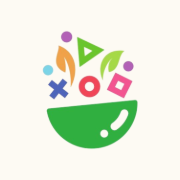
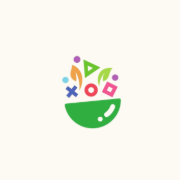
v4

Changed region(s): [[0.2222, 0.1667, 0.7778, 0.8333]]

diff --git a/Fillable Forms/pdf-form.js b/Fillable Forms/pdf-form.js
@@ -53,15 +53,127 @@
     // “Save my progress” writes an explicit file instead
   }
 
+  /* ---------- zoom / device (screen only) ---------- */
+  var ZOOM_MIN = 0.6, ZOOM_MAX = 2, ZOOM_STEP = 0.1;
+  var zoom = 1;
+  function setZoom(z) {
+    zoom = Math.min(ZOOM_MAX, Math.max(ZOOM_MIN, Math.round(z * 100) / 100));
+    document.documentElement.style.setProperty('--pf-zoom', zoom);
+    var val = document.querySelector('.pf-zoom-val');
+    if (val) val.textContent = Math.round(zoom * 100) + '%';
+    requestAnimationFrame(fitFonts);
+  }
+  function setDevice(mode) {
+    var phone = mode === 'phone';
+    document.body.classList.toggle('pf-phone', phone);
+    if (phone) setZoom(1);
+    document.querySelectorAll('.pf-view .seg').forEach(function (s) {
+      s.classList.toggle('active', s.getAttribute('data-view') === mode);
+    });
+    requestAnimationFrame(fitFonts);
+  }
+  function autoDevice() {
+    var small = window.matchMedia('(max-width: 760px)').matches;
+    var coarse = window.matchMedia('(pointer: coarse)').matches;
+    setDevice(small || coarse ? 'phone' : 'computer');
+  }
+
+  /* ---------- share ---------- */
+  function shareForm() {
+    var url = location.href.split('#')[0];
+    var title = CFG.title || document.title || 'Noor Therapy Center form';
+    if (navigator.share) {
+      navigator.share({ title: title, text: 'Please complete this form for Noor Therapy Center:', url: url }).catch(function () {});
+      return;
+    }
+    openSharePopover(url, title);
+  }
+  function openSharePopover(url, title) {
+    closeSharePopover();
+    var pop = document.createElement('div');
+    pop.className = 'share-pop no-print';
+    pop.innerHTML =
+      '<button class="close" data-act="x" aria-label="Close">\u00d7</button>' +
+      '<h4>Share this form</h4>' +
+      '<p>Send the link so anyone can fill it out on their phone or computer.</p>' +
+      '<input class="url" readonly value="' + url.replace(/"/g, '&quot;') + '"/>' +
+      '<div class="row">' +
+        '<button data-act="copy">Copy link</button>' +
+        '<button class="alt" data-act="email">Email</button>' +
+      '</div>';
+    document.body.appendChild(pop);
+    var input = pop.querySelector('.url');
+    input.addEventListener('focus', function () { input.select(); });
+    pop.addEventListener('click', function (e) {
+      var b = e.target.closest('button');
+      if (!b) return;
+      var act = b.getAttribute('data-act');
+      if (act === 'x') { closeSharePopover(); }
+      else if (act === 'copy') { copyText(url); toast('Link copied to clipboard'); closeSharePopover(); }
+      else if (act === 'email') {
+        window.location.href = 'mailto:?subject=' + encodeURIComponent(title) +
+          '&body=' + encodeURIComponent('Please complete this form for Noor Therapy Center:\n\n' + url);
+        closeSharePopover();
+      }
+    });
+    setTimeout(function () { document.addEventListener('click', outsideShare, true); }, 0);
+  }
+  function outsideShare(e) {
+    if (e.target.closest('.share-pop') || e.target.closest('[data-act="share"]')) return;
+    closeSharePopover();
+  }
+  function closeSharePopover() {
+    var p = document.querySelector('.share-pop');
+    if (p) p.remove();
+    document.removeEventListener('click', outsideShare, true);
+  }
+  function copyText(text) {
+    if (navigator.clipboard && navigator.clipboard.writeText) {
+      navigator.clipboard.writeText(text).catch(function () { legacyCopy(text); });
+    } else { legacyCopy(text); }
+  }
+  function legacyCopy(text) {
+    var t = document.createElement('textarea');
+    t.value = text; t.style.position = 'fixed'; t.style.opacity = '0';
+    document.body.appendChild(t); t.focus(); t.select();
+    try { document.execCommand('copy'); } catch (e) {}
+    document.body.removeChild(t);
+  }
+  var toastTimer;
+  function toast(msg) {
+    var el = document.querySelector('.pf-toast');
+    if (!el) {
+      el = document.createElement('div');
+      el.className = 'pf-toast no-print';
+      document.body.appendChild(el);
+    }
+    el.textContent = msg;
+    requestAnimationFrame(function () { el.classList.add('show'); });
+    clearTimeout(toastTimer);
+    toastTimer = setTimeout(function () { el.classList.remove('show'); }, 2400);
+  }
+
   /* ---------- chrome ---------- */
   function buildChrome() {
     var bar = document.createElement('div');
-    bar.className = 'pf-toolbar no-print';    bar.innerHTML =
+    bar.className = 'pf-toolbar no-print';
+    bar.innerHTML =
       '<button type="button" class="pf-back"><svg viewBox="0 0 24 24" fill="none" stroke="currentColor" stroke-width="2.4" stroke-linecap="round" stroke-linejoin="round"><path d="m15 18-6-6 6-6"/></svg>Back</button>' +
       '<span class="pf-title"></span>' +
+      '<div class="pf-group pf-zoomg">' +
+        '<button type="button" class="zoom" data-act="zoom-out" title="Zoom out" aria-label="Zoom out">\u2212</button>' +
+        '<button type="button" class="pf-zoom-val" data-act="zoom-reset" title="Reset zoom">100%</button>' +
+        '<button type="button" class="zoom" data-act="zoom-in" title="Zoom in" aria-label="Zoom in">+</button>' +
+      '</div>' +
+      '<div class="pf-group pf-view">' +
+        '<button type="button" class="seg active" data-view="computer">Computer</button>' +
+        '<button type="button" class="seg" data-view="phone">Phone</button>' +
+      '</div>' +
+      '<button type="button" class="pf-share" data-act="share">Share</button>' +
+      '<button type="button" class="pf-pdf" title="Choose &quot;Save as PDF&quot; as the destination">Download PDF</button>' +
+      '<button type="button" class="pf-print" title="Send to a printer">Print</button>' +
       '<button type="button" class="pf-theme" title="Switch to dark mode">\u263E</button>' +
-      '<button type="button" class="pf-clear">Clear</button>' +
-      '<button type="button" class="pf-print">Print / Save PDF</button>';
+      '<button type="button" class="pf-clear">Clear</button>';
     document.body.insertBefore(bar, document.body.firstChild);
     bar.querySelector('.pf-title').textContent = CFG.title || document.title;
 
@@ -72,7 +184,21 @@
       }
       location.href = '../staff-portal/forms.html';
     });
+    bar.querySelector('.pf-pdf').addEventListener('click', function () { window.print(); });
     bar.querySelector('.pf-print').addEventListener('click', function () { window.print(); });
+    bar.querySelector('.pf-share').addEventListener('click', shareForm);
+    bar.addEventListener('click', function (e) {
+      var view = e.target.closest('[data-view]');
+      if (view) { setDevice(view.getAttribute('data-view')); return; }
+      var b = e.target.closest('button[data-act]');
+      if (!b) return;
+      switch (b.getAttribute('data-act')) {
+        case 'zoom-in':    setZoom(zoom + ZOOM_STEP); break;
+        case 'zoom-out':   setZoom(zoom - ZOOM_STEP); break;
+        case 'zoom-reset': setZoom(1); break;
+      }
+    });
+    autoDevice();
 
     // Save / open progress (same affordance as the HTML forms)
     var sb = document.createElement('div');

diff --git a/Fillable Forms/pdf-form.css b/Fillable Forms/pdf-form.css
@@ -16,14 +16,25 @@ body { margin: 0; background: #e9ece4; font-family: 'DM Sans', system-ui, sans-s
 .pf-toolbar button { font-family: inherit; font-size: 12.5px; font-weight: 700; border: none; border-radius: 999px; padding: 9px 15px; cursor: pointer; }
 .pf-toolbar .pf-back { background: #f0f0ea; color: #1f2e1a; display: inline-flex; align-items: center; gap: 6px; }
 .pf-toolbar .pf-back svg { width: 14px; height: 14px; }
-.pf-toolbar .pf-print { background: #2f6fd6; color: #fff; }
+.pf-toolbar .pf-share { background: #9b51c9; color: #fff; }
+.pf-toolbar .pf-pdf { background: #2f6fd6; color: #fff; }
+.pf-toolbar .pf-print { background: #2aa63a; color: #fff; }
 .pf-toolbar .pf-clear { background: #f0f0ea; color: #4a5545; }
+
+/* zoom + view groups */
+.pf-toolbar .pf-group { display: flex; align-items: center; gap: 2px; background: #f0f0ea; border-radius: 999px; padding: 3px; }
+.pf-toolbar .pf-group button { background: transparent; color: #1f2e1a; padding: 6px 12px; border-radius: 999px; }
+.pf-toolbar .pf-zoomg .zoom { width: 32px; padding: 6px 0; font-size: 14px; }
+.pf-toolbar .pf-zoom-val { min-width: 52px; font-variant-numeric: tabular-nums; }
+.pf-toolbar .pf-view .seg.active { background: #fff; box-shadow: 0 1px 3px rgba(0,0,0,.14); }
+@media (max-width: 760px) { .pf-toolbar .pf-zoomg { display: none; } }
 .pf-toolbar .pf-theme { background: #f0f0ea; color: #4a5545; width: 38px; padding: 9px 0; font-size: 14px; line-height: 1; }
 .pf-toolbar button:hover { filter: brightness(.95); }
 .pf-saved { font-size: 12px; font-weight: 700; color: #2aa63a; opacity: 0; transition: opacity .2s ease; }
 .pf-saved.on { opacity: 1; }
 
-#pf-pages { max-width: 900px; margin: 22px auto 60px; padding: 0 14px; display: grid; gap: 22px; }
+#pf-pages { max-width: calc(900px * var(--pf-zoom, 1)); margin: 22px auto 60px; padding: 0 14px; display: grid; gap: 22px; }
+body.pf-phone #pf-pages { max-width: none; padding: 0 6px; }
 .pf-loading { text-align: center; font-size: 13px; font-weight: 600; color: #4a5545; padding: 50px 0; }
 
 /* Save / open progress bar */
@@ -67,6 +78,19 @@ body { margin: 0; background: #e9ece4; font-family: 'DM Sans', system-ui, sans-s
 }
 @page { size: letter; margin: 0; }
 
+/* Share popover + toast */
+.share-pop { position: fixed; top: 66px; right: 16px; z-index: 90; width: min(320px, calc(100vw - 32px)); background: #fff; border: 1.5px solid #e3ddc9; border-radius: 14px; box-shadow: 0 18px 50px -18px rgba(0,0,0,.35); padding: 16px 16px 14px; font-family: 'DM Sans', system-ui, sans-serif; }
+.share-pop h4 { margin: 0 0 4px; font-size: 14px; color: #1f2e1a; }
+.share-pop p { margin: 0 0 10px; font-size: 12px; color: #6b7561; }
+.share-pop .url { width: 100%; font: 600 11.5px/1.4 ui-monospace, Menlo, monospace; color: #1f2e1a; background: #f7f4ea; border: 1.4px solid #e3ddc9; border-radius: 8px; padding: 8px 10px; margin-bottom: 10px; }
+.share-pop .row { display: flex; gap: 8px; }
+.share-pop .row button { flex: 1; font-family: inherit; font-size: 12.5px; font-weight: 700; border: none; border-radius: 9px; padding: 9px 0; cursor: pointer; background: #2aa63a; color: #fff; }
+.share-pop .row button.alt { background: #f0f0ea; color: #1f2e1a; }
+.share-pop .close { position: absolute; top: 8px; right: 10px; background: none; border: none; font-size: 18px; color: #6b7561; cursor: pointer; }
+.pf-toast { position: fixed; left: 50%; bottom: 26px; transform: translate(-50%, 12px); z-index: 95; background: #1f2e1a; color: #fdfaf3; font: 700 13px/1 'DM Sans', system-ui, sans-serif; padding: 12px 18px; border-radius: 999px; opacity: 0; pointer-events: none; transition: opacity .2s ease, transform .2s ease; }
+.pf-toast.show { opacity: 1; transform: translate(-50%, 0); }
+@media print { .share-pop, .pf-toast { display: none !important; } }
+
 /* ---- Dark mode (screen only — print / Save as PDF is always light) ---- */
 @media screen {
   html[data-theme="dark"] body { background: #14180f; }
@@ -76,6 +100,14 @@ body { margin: 0; background: #e9ece4; font-family: 'DM Sans', system-ui, sans-s
   html[data-theme="dark"] .pf-toolbar .pf-back,
   html[data-theme="dark"] .pf-toolbar .pf-clear,
   html[data-theme="dark"] .pf-toolbar .pf-theme { background: #141a0f; color: #a6b099; }
+  html[data-theme="dark"] .pf-toolbar .pf-group { background: #141a0f; }
+  html[data-theme="dark"] .pf-toolbar .pf-group button { color: #a6b099; }
+  html[data-theme="dark"] .pf-toolbar .pf-view .seg.active { background: #2f3826; color: #e9ecdd; box-shadow: none; }
+  html[data-theme="dark"] .share-pop { background: #1d2316; border-color: #2f3826; }
+  html[data-theme="dark"] .share-pop h4 { color: #e9ecdd; }
+  html[data-theme="dark"] .share-pop p, html[data-theme="dark"] .share-pop .close { color: #a6b099; }
+  html[data-theme="dark"] .share-pop .url { background: #141a0f; border-color: #2f3826; color: #e9ecdd; }
+  html[data-theme="dark"] .share-pop .row button.alt { background: #141a0f; color: #a6b099; }
   html[data-theme="dark"] .pf-loading { color: #a6b099; }
   html[data-theme="dark"] .pf-savebar { background: #1a2014; border-color: #39422c; }
   html[data-theme="dark"] .pf-savebar .fs-note { color: #a6b099; }